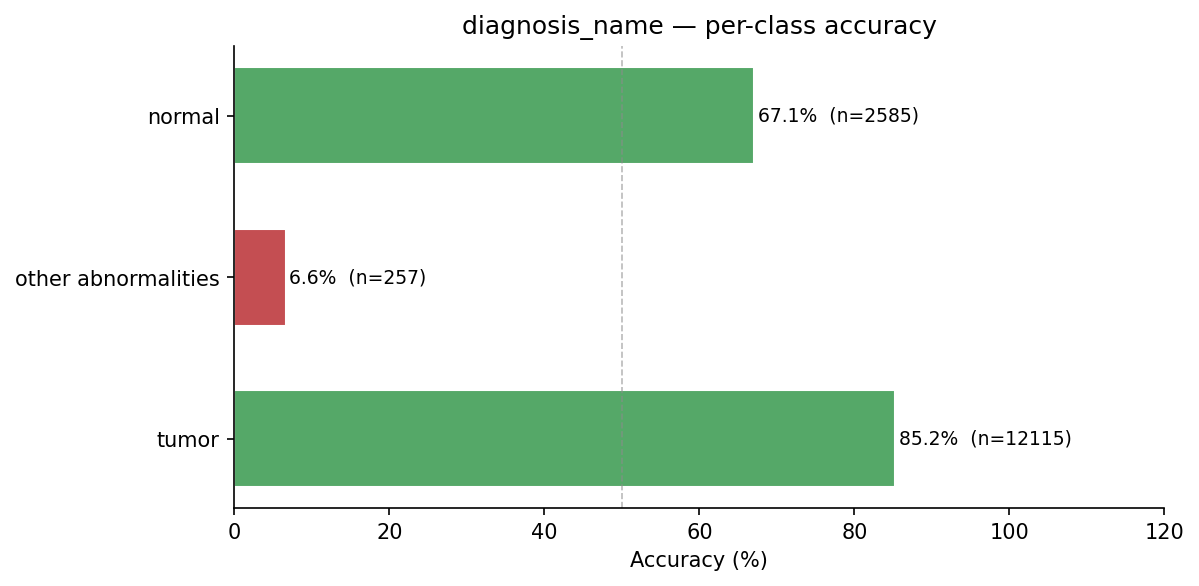
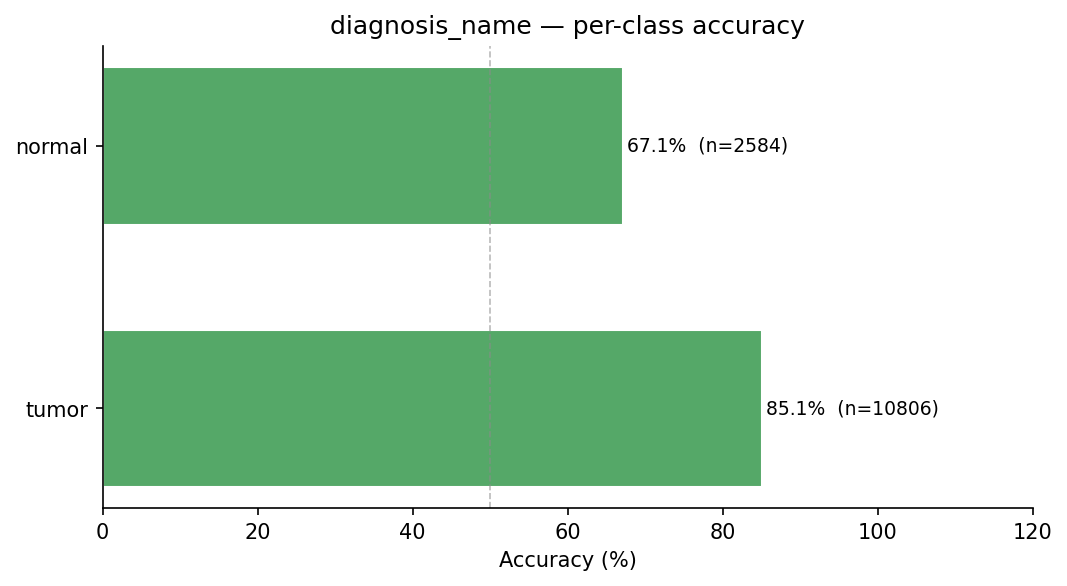
mcnemmar test

diff --git a/compute_metrics.py b/compute_metrics.py
@@ -13,6 +13,7 @@ import matplotlib
 matplotlib.use("Agg")
 import matplotlib.pyplot as plt
 import numpy as np
+from statsmodels.stats.contingency_tables import mcnemar
 
 STANDALONE  = "results/phases/standalone_summary_results.jsonl"
 SAM3        = "results/sam3_summary_results.jsonl"
@@ -53,6 +54,12 @@ def avg_floats(vals):
 def acc_str(c, t):
     return f"{c}/{t} = {pct(c,t):.1f}%" if t else "N/A"
 
+def norm_path(p):
+    for prefix in ("data/raw data/", "data/"):
+        if str(p or "").startswith(prefix):
+            return str(p)[len(prefix):]
+    return str(p or "")
+
 # ── tee: write to stdout AND collect for file ─────────────────────────────────
 
 _lines = []
@@ -79,17 +86,98 @@ def field_accuracy(records, gt_path, pred_path):
     total_t = sum(v[1] for v in by_val.values())
     return total_c, total_t, dict(by_val)
 
-# ── PART 1: Standalone MedGemma ───────────────────────────────────────────────
+def run_mcnemar(sa_records_by_path, s3_records_by_path, gt_path, pred_path):
+    """
+    For each image present in both result sets, compute whether standalone
+    and pipeline were correct, then run McNemar's test.
 
-records = [r for r in load_jsonl(STANDALONE)
-           if (r.get("input", {}).get("metadata", {}).get("dataset") or "").lower()
-              in TUMOR_DATASETS]
+    Returns dict with keys: both_correct, only_standalone, only_pipeline,
+    both_wrong, n, statistic, pvalue.
+    Returns None if fewer than 2 discordant pairs exist.
+    """
+    both_correct    = 0
+    only_standalone = 0
+    only_pipeline   = 0
+    both_wrong      = 0
+
+    shared_paths = set(sa_records_by_path) & set(s3_records_by_path)
+    for path in shared_paths:
+        sa_r = sa_records_by_path[path]
+        s3_r = s3_records_by_path[path]
+
+        gt_sa = get(sa_r, gt_path)
+        gt_s3 = get(s3_r, gt_path)
+        # Use standalone gt as ground truth (same image, same label);
+        # skip if gt is missing in either record
+        gt = gt_sa if gt_sa is not None else gt_s3
+        if gt is None:
+            continue
+        gt = str(gt).lower()
+
+        sa_pred = get(sa_r, pred_path)
+        s3_pred = get(s3_r, pred_path)
+        sa_ok = sa_pred is not None and str(sa_pred).lower() == gt
+        s3_ok = s3_pred is not None and str(s3_pred).lower() == gt
+
+        if sa_ok and s3_ok:
+            both_correct += 1
+        elif sa_ok and not s3_ok:
+            only_standalone += 1
+        elif not sa_ok and s3_ok:
+            only_pipeline += 1
+        else:
+            both_wrong += 1
+
+    n = both_correct + only_standalone + only_pipeline + both_wrong
+    discordant = only_standalone + only_pipeline
+    if discordant < 2:
+        return {"n": n, "both_correct": both_correct,
+                "only_standalone": only_standalone,
+                "only_pipeline": only_pipeline,
+                "both_wrong": both_wrong,
+                "statistic": None, "pvalue": None,
+                "note": "too few discordant pairs"}
+
+    table = [[both_correct, only_standalone],
+             [only_pipeline, both_wrong]]
+    result = mcnemar(table, exact=False, correction=True)
+    return {
+        "n": n,
+        "both_correct": both_correct,
+        "only_standalone": only_standalone,
+        "only_pipeline": only_pipeline,
+        "both_wrong": both_wrong,
+        "statistic": result.statistic,
+        "pvalue": result.pvalue,
+    }
+
+# ── load SAM3 first; build path set for filtering ────────────────────────────
+
+raw_sam3 = [r for r in load_jsonl(SAM3) if r.get("mode") == "sam3_bbox"]
+sam3_paths = {norm_path(r.get("image_path", "")) for r in raw_sam3}
+
+pr(f"SAM3 bbox records        : {len(raw_sam3)}")
+pr(f"Unique SAM3 image paths  : {len(sam3_paths)}")
+
+# ── load standalone; filter to SAM3 image set ────────────────────────────────
+
+all_standalone = [r for r in load_jsonl(STANDALONE)
+                  if (r.get("input", {}).get("metadata", {}).get("dataset") or "").lower()
+                     in TUMOR_DATASETS]
+
+records = [r for r in all_standalone
+           if norm_path(get(r, "input.image_path") or "") in sam3_paths]
+
+pr(f"Standalone (all datasets): {len(all_standalone)}")
+pr(f"Standalone (SAM3-matched): {len(records)}  <- used for all comparisons below")
+
+# ── PART 1: Standalone MedGemma ───────────────────────────────────────────────
 
 pr("\n" + "="*60)
 pr("  STANDALONE MEDGEMMA — Accuracy per field")
 pr("="*60)
 
-field_results = {}   # field -> (total_c, total_t, by_val)
+field_results = {}
 for field, gt_path, pred_path in FIELDS:
     tc, tt, by_val = field_accuracy(records, gt_path, pred_path)
     field_results[field] = (tc, tt, by_val)
@@ -104,7 +192,7 @@ pr("\n" + "="*60)
 pr("  STANDALONE MEDGEMMA — Score distributions")
 pr("="*60)
 
-score_data = {}   # sk -> {"overall": (avg, n), "by_dx": {dx: (avg, n)}}
+score_data = {}
 for sk in SCORE_KEYS:
     overall_vals = [get(r, f"output.parsed_response.{sk}") for r in records]
     ov_avg, ov_n = avg_floats(overall_vals)
@@ -124,22 +212,13 @@ for sk in SCORE_KEYS:
 
 # ── PART 2: SAM3 + MedGemma accuracy ─────────────────────────────────────────
 
-sam3 = [r for r in load_jsonl(SAM3) if r.get("mode") == "sam3_bbox"]
-
-# Build path lookup from standalone so we can fill in gt modality/plane/sequence
-def norm_path(p):
-    for prefix in ("data/raw data/", "data/"):
-        if str(p or "").startswith(prefix):
-            return str(p)[len(prefix):]
-    return str(p or "")
-
+# Build meta lookup from the filtered standalone set
 _meta_lookup = {}
 for r in records:
     ip = get(r, "input.image_path") or ""
     meta = get(r, "input.metadata") or {}
     _meta_lookup[norm_path(ip)] = meta
 
-# Normalize each SAM3 record to the same nested structure field_accuracy expects
 def norm_sam3(r):
     pred = r.get("prediction") or {}
     gt_label = r.get("gt_label") or "normal"
@@ -147,6 +226,7 @@ def norm_sam3(r):
     gt_sub    = None if gt_label == "normal" else gt_label
     meta = _meta_lookup.get(norm_path(r.get("image_path", "")), {})
     return {
+        "_image_path": norm_path(r.get("image_path", "")),   # kept for McNemar lookup
         "input": {"metadata": {
             "class":            gt_class,
             "subclass":         gt_sub,
@@ -166,7 +246,7 @@ def norm_sam3(r):
         }},
     }
 
-sam3_norm = [norm_sam3(r) for r in sam3]
+sam3_norm = [norm_sam3(r) for r in raw_sam3]
 
 pr("\n" + "="*60)
 pr("  SAM3 + MEDGEMMA — Accuracy per field")
@@ -205,20 +285,48 @@ for sk in SCORE_KEYS:
         a, n = by_dx_avg[dx]
         pr(f"    {dx:<30} {f'{a:.3f} (n={n})' if a else 'N/A'}")
 
-# ── PART 3: SAM3 influence ────────────────────────────────────────────────────
+# ── PART 3: McNemar's test — paired per-image comparison ─────────────────────
+
+# Build path-keyed dicts for aligned lookup
+sa_by_path = {norm_path(get(r, "input.image_path") or ""): r for r in records}
+s3_by_path = {r["_image_path"]: r for r in sam3_norm}
+
+pr("\n" + "="*60)
+pr("  McNEMAR'S TEST — Standalone vs SAM3+MedGemma (paired)")
+pr("="*60)
+pr(f"  Shared images available for pairing: "
+   f"{len(set(sa_by_path) & set(s3_by_path))}")
+
+mcnemar_results = {}
+for field, gt_path, pred_path in FIELDS:
+    res = run_mcnemar(sa_by_path, s3_by_path, gt_path, pred_path)
+    mcnemar_results[field] = res
+    pr(f"\n[{field}]  n={res['n']}")
+    pr(f"    Both correct      : {res['both_correct']}")
+    pr(f"    Only standalone   : {res['only_standalone']}  (SAM3 hurt)")
+    pr(f"    Only pipeline     : {res['only_pipeline']}  (SAM3 helped)")
+    pr(f"    Both wrong        : {res['both_wrong']}")
+    if res["pvalue"] is not None:
+        sig = "***" if res["pvalue"] < 0.001 else ("**" if res["pvalue"] < 0.01 else
+              ("*" if res["pvalue"] < 0.05 else "ns"))
+        pr(f"    McNemar chi2={res['statistic']:.3f}, p={res['pvalue']:.4e}  {sig}")
+    else:
+        pr(f"    {res.get('note', 'N/A')}")
+
+# ── PART 4: SAM3 influence ────────────────────────────────────────────────────
 
 def is_tumor(r):  return r.get("gt_label", "normal") != "normal"
 def pred_cls(r):   return (r.get("prediction") or {}).get("diagnosis_name", "")
 
-tumor_imgs  = [r for r in sam3 if is_tumor(r)]
-normal_imgs = [r for r in sam3 if not is_tumor(r)]
-no_tumor    = [r for r in tumor_imgs if r.get("tumor_fraction", 1) < TUMOR_THRESH]
-missed      = [r for r in no_tumor   if pred_cls(r) != "tumor"]
+tumor_imgs  = [r for r in raw_sam3 if is_tumor(r)]
+normal_imgs = [r for r in raw_sam3 if not is_tumor(r)]
+no_tumor    = [r for r in tumor_imgs  if r.get("tumor_fraction", 1) < TUMOR_THRESH]
+missed      = [r for r in no_tumor    if pred_cls(r) != "tumor"]
 fp_seg      = [r for r in normal_imgs if r.get("tumor_fraction", 0) >= TUMOR_THRESH]
-false_pos   = [r for r in fp_seg     if pred_cls(r) == "tumor"]
+false_pos   = [r for r in fp_seg      if pred_cls(r) == "tumor"]
 
 pr("\n" + "="*60)
-pr("  SAM3 — Tumor images where SAM3 missed tumor → wrong pred")
+pr("  SAM3 — Tumor images where SAM3 missed tumor -> wrong pred")
 pr("="*60)
 pr(f"  Count: {len(missed)}")
 for r in missed:
@@ -226,7 +334,7 @@ for r in missed:
        f"fraction={r.get('tumor_fraction',0):.5f}  {r['image_path']}")
 
 pr("\n" + "="*60)
-pr("  SAM3 — Normal images where SAM3 found tumor → pred=tumor")
+pr("  SAM3 — Normal images where SAM3 found tumor -> pred=tumor")
 pr("="*60)
 pr(f"  Count: {len(false_pos)}")
 for r in false_pos:
@@ -236,17 +344,17 @@ for r in false_pos:
 pr("\n" + "="*60)
 pr("  SAM3 — Summary")
 pr("="*60)
-pr(f"  sam3_bbox records total : {len(sam3)}")
+pr(f"  sam3_bbox records total : {len(raw_sam3)}")
 pr(f"  Tumor images            : {len(tumor_imgs)}")
 pr(f"    SAM3 missed tumor     : {len(no_tumor)}")
-pr(f"    → also mis-classified : {len(missed)}")
+pr(f"    -> also mis-classified : {len(missed)}")
 pr(f"  Normal images           : {len(normal_imgs)}")
 pr(f"    SAM3 found tumor pxls : {len(fp_seg)}")
-pr(f"    → also pred as tumor  : {len(false_pos)}")
+pr(f"    -> also pred as tumor  : {len(false_pos)}")
 
 # ── Save text report ──────────────────────────────────────────────────────────
 
-with open(OUT_TXT, "w") as f:
+with open(OUT_TXT, "w", encoding="utf-8") as f:
     f.write("\n".join(_lines))
 print(f"\n[saved] {OUT_TXT}")
 
@@ -259,7 +367,6 @@ GREEN  = "#55A868"
 RED    = "#C44E52"
 ORANGE = "#DD8452"
 GRAY   = "#8C8C8C"
-COLORS = [BLUE, GREEN, ORANGE, RED, "#9172B0", "#64B5CD", "#CCB974"]
 
 def save(fig, name):
     p = os.path.join(OUT_PLOTS, name)
@@ -325,8 +432,7 @@ save(fig, "03_diagnosis_detailed_per_class.png")
 
 # ── Plot 4: Score averages by predicted diagnosis_name ───────────────────────
 
-all_dx = sorted({dx for sk in SCORE_KEYS
-                    for dx in score_data[sk]["by_dx"]})
+all_dx = sorted({dx for sk in SCORE_KEYS for dx in score_data[sk]["by_dx"]})
 x = np.arange(len(all_dx))
 width = 0.25
 
@@ -365,7 +471,6 @@ save(fig, "05_specialized_sequence_accuracy.png")
 # ── Plot 6: SAM3 influence summary ───────────────────────────────────────────
 
 fig, ax = plt.subplots(figsize=(8, 4.5))
-
 categories = ["Tumor images\n(SAM3 missed)", "Normal images\n(SAM3 false seg)"]
 total_bars = [len(no_tumor),  len(fp_seg)]
 wrong_bars = [len(missed),    len(false_pos)]
@@ -373,14 +478,13 @@ wrong_bars = [len(missed),    len(false_pos)]
 x = np.arange(len(categories))
 w = 0.35
 b1 = ax.bar(x - w/2, total_bars, w, label="SAM3 segmentation error",  color=ORANGE, edgecolor="white")
-b2 = ax.bar(x + w/2, wrong_bars, w, label="→ also MedGemma wrong",    color=RED,    edgecolor="white")
+b2 = ax.bar(x + w/2, wrong_bars, w, label="-> also MedGemma wrong",   color=RED,    edgecolor="white")
 
 for bar in list(b1) + list(b2):
     h = bar.get_height()
     ax.text(bar.get_x() + bar.get_width()/2, h + 3, str(h),
             ha="center", va="bottom", fontsize=10, fontweight="bold")
 
-# reference totals as dashed lines
 ax.axhline(len(tumor_imgs),  color=BLUE,  linestyle="--", linewidth=1,
            label=f"Total tumor images ({len(tumor_imgs)})",  alpha=0.7, xmin=0.02, xmax=0.48)
 ax.axhline(len(normal_imgs), color=GREEN, linestyle="--", linewidth=1,
@@ -394,15 +498,15 @@ ax.legend(fontsize=8.5, loc="upper right")
 ax.spines[["top", "right"]].set_visible(False)
 save(fig, "06_sam3_influence.png")
 
-# ── Plot 7: tumor_fraction distribution for SAM3 false positives (normal→tumor) ──
+# ── Plot 7: tumor_fraction distribution for SAM3 false positives ─────────────
 
 fracs_fp = [r.get("tumor_fraction", 0) for r in false_pos]
 fracs_ok = [r.get("tumor_fraction", 0) for r in normal_imgs if pred_cls(r) != "tumor"]
 
 fig, ax = plt.subplots(figsize=(8, 4))
 bins = np.linspace(0, max(fracs_fp + fracs_ok + [0.001]), 30)
-ax.hist(fracs_ok, bins=bins, color=GREEN, alpha=0.6, label="Normal → correctly normal")
-ax.hist(fracs_fp, bins=bins, color=RED,   alpha=0.8, label="Normal → wrongly predicted tumor")
+ax.hist(fracs_ok, bins=bins, color=GREEN, alpha=0.6, label="Normal -> correctly normal")
+ax.hist(fracs_fp, bins=bins, color=RED,   alpha=0.8, label="Normal -> wrongly predicted tumor")
 ax.set_xlabel("tumor_fraction (SAM3)")
 ax.set_ylabel("Count")
 ax.set_title("SAM3 tumor fraction: normal images — correct vs false-positive predictions")
@@ -410,7 +514,7 @@ ax.legend(fontsize=9)
 ax.spines[["top", "right"]].set_visible(False)
 save(fig, "07_sam3_fp_fraction_dist.png")
 
-# ── Plot 8: Standalone vs SAM3 — overall accuracy per field (side-by-side) ───
+# ── Plot 8: Standalone vs SAM3 — overall accuracy per field ──────────────────
 
 fig, ax = plt.subplots(figsize=(9, 5))
 field_labels = [f for f, *_ in FIELDS]
@@ -424,11 +528,22 @@ b2 = ax.bar(x + w/2, s3_vals, w, label="SAM3 + MedGemma",     color=ORANGE, edge
 for bar, v in [(b, v) for bars, vals in [(b1, sa_vals), (b2, s3_vals)] for b, v in zip(bars, vals)]:
     ax.text(bar.get_x() + bar.get_width()/2, bar.get_height() + 0.5,
             f"{v:.1f}%", ha="center", va="bottom", fontsize=8)
+
+# Significance stars from McNemar's test above each pair
+for i, field in enumerate(field_labels):
+    res = mcnemar_results.get(field, {})
+    p = res.get("pvalue")
+    if p is not None:
+        stars = "***" if p < 0.001 else ("**" if p < 0.01 else ("*" if p < 0.05 else "ns"))
+        top = max(sa_vals[i], s3_vals[i]) + 4
+        ax.text(i, top, stars, ha="center", va="bottom", fontsize=9, color="black")
+
 ax.set_xticks(x)
 ax.set_xticklabels(field_labels, rotation=15, ha="right", fontsize=9)
 ax.set_ylabel("Accuracy (%)")
 ax.set_ylim(0, 115)
-ax.set_title("Standalone MedGemma vs SAM3 + MedGemma — accuracy per field")
+ax.set_title("Standalone MedGemma vs SAM3 + MedGemma — accuracy per field\n"
+             "(significance stars from McNemar's test)")
 ax.axhline(50, color=GRAY, linestyle="--", linewidth=0.8, alpha=0.5)
 ax.legend(fontsize=9)
 ax.spines[["top", "right"]].set_visible(False)
@@ -456,7 +571,7 @@ ax.set_xticklabels(all_classes, rotation=20, ha="right", fontsize=9)
 ax.set_ylabel("Accuracy (%)")
 ax.set_ylim(0, 115)
 ax.set_title("diagnosis_name — Standalone vs SAM3 + MedGemma")
-ax.axhline(50, color=GRAY, linestyle="--", linewidth=0.8, alpha=0.5)
+ax.axhline(50, color=GRAY, linestyle="--", linewidth=0.8, alpha=0.6)
 ax.legend(fontsize=9)
 ax.spines[["top", "right"]].set_visible(False)
 save(fig, "09_diagnosis_name_standalone_vs_sam3.png")
